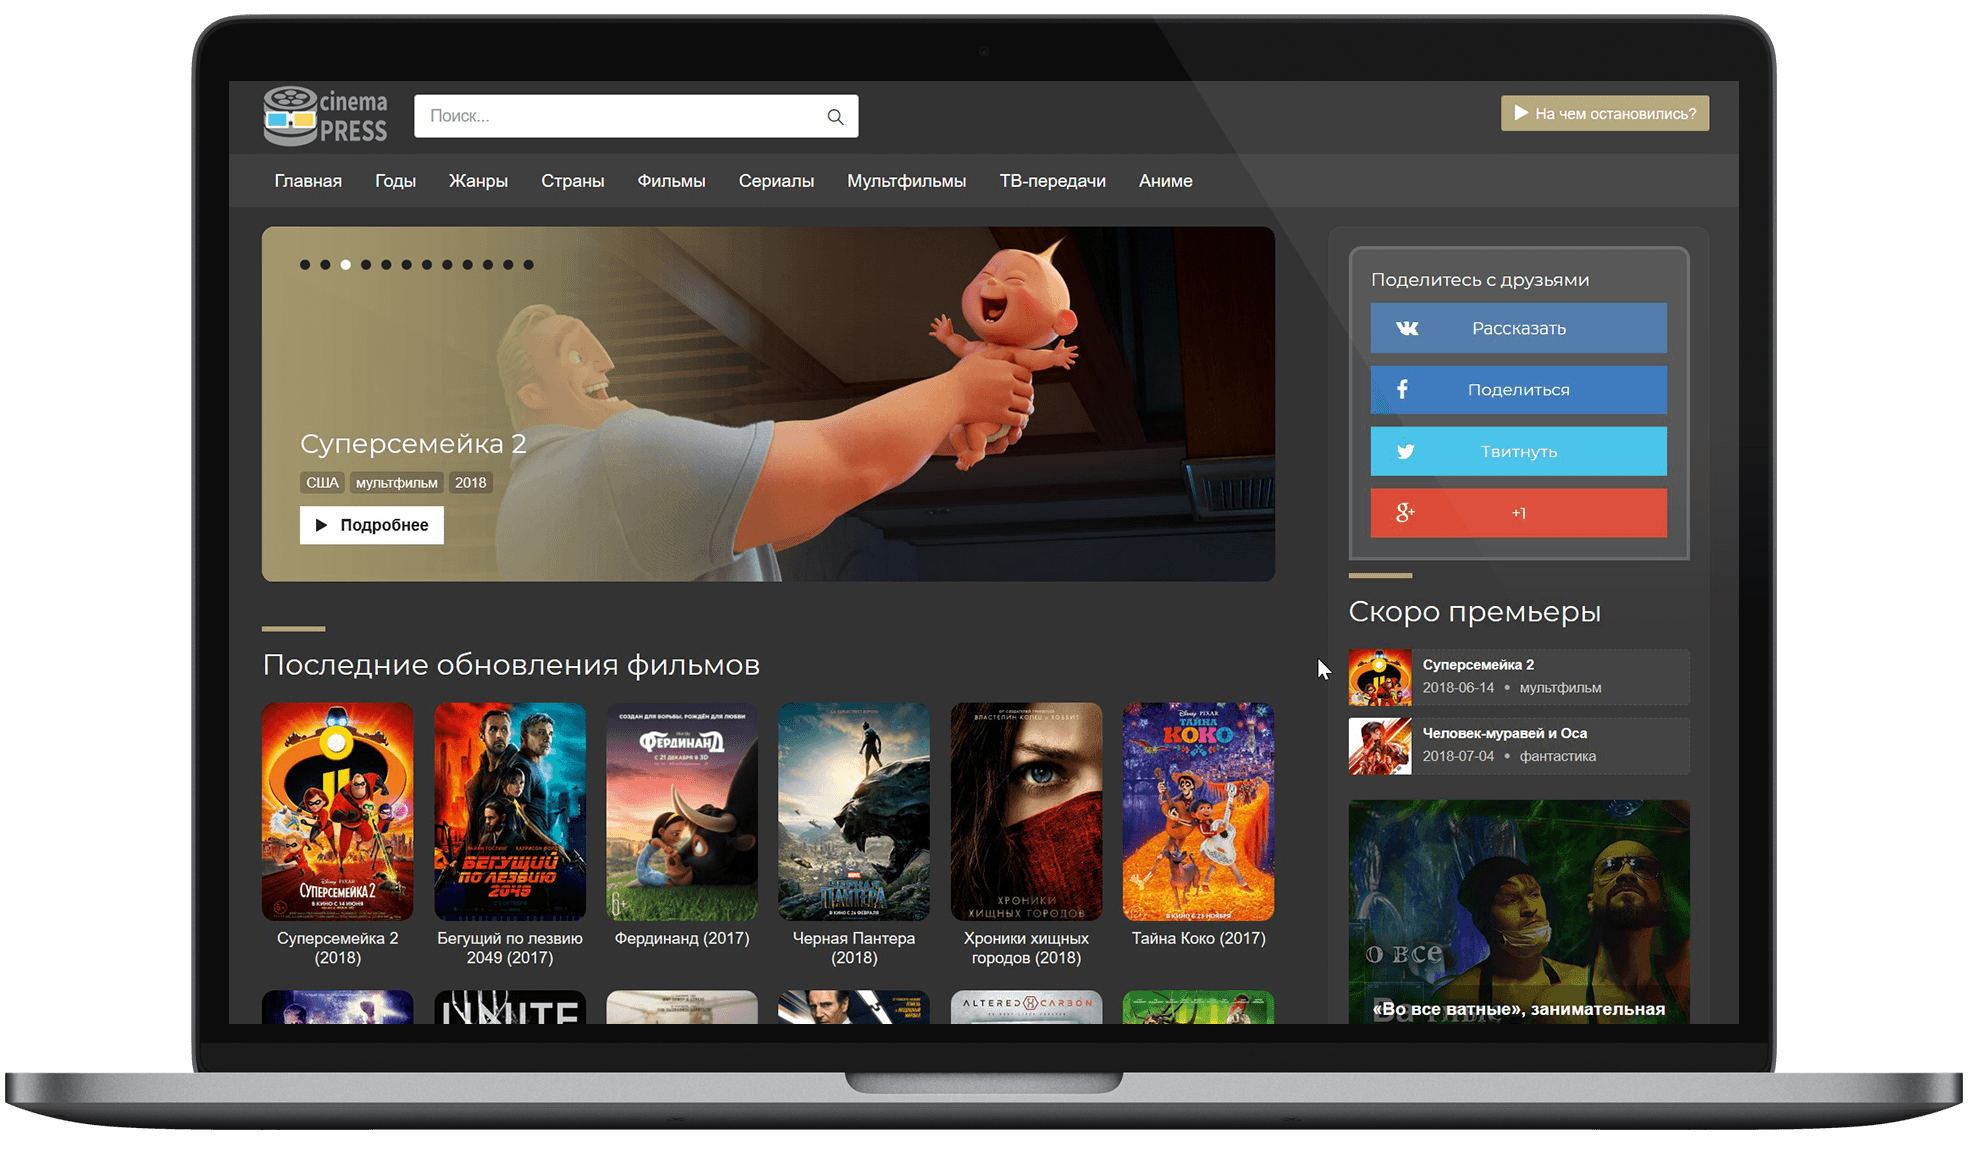
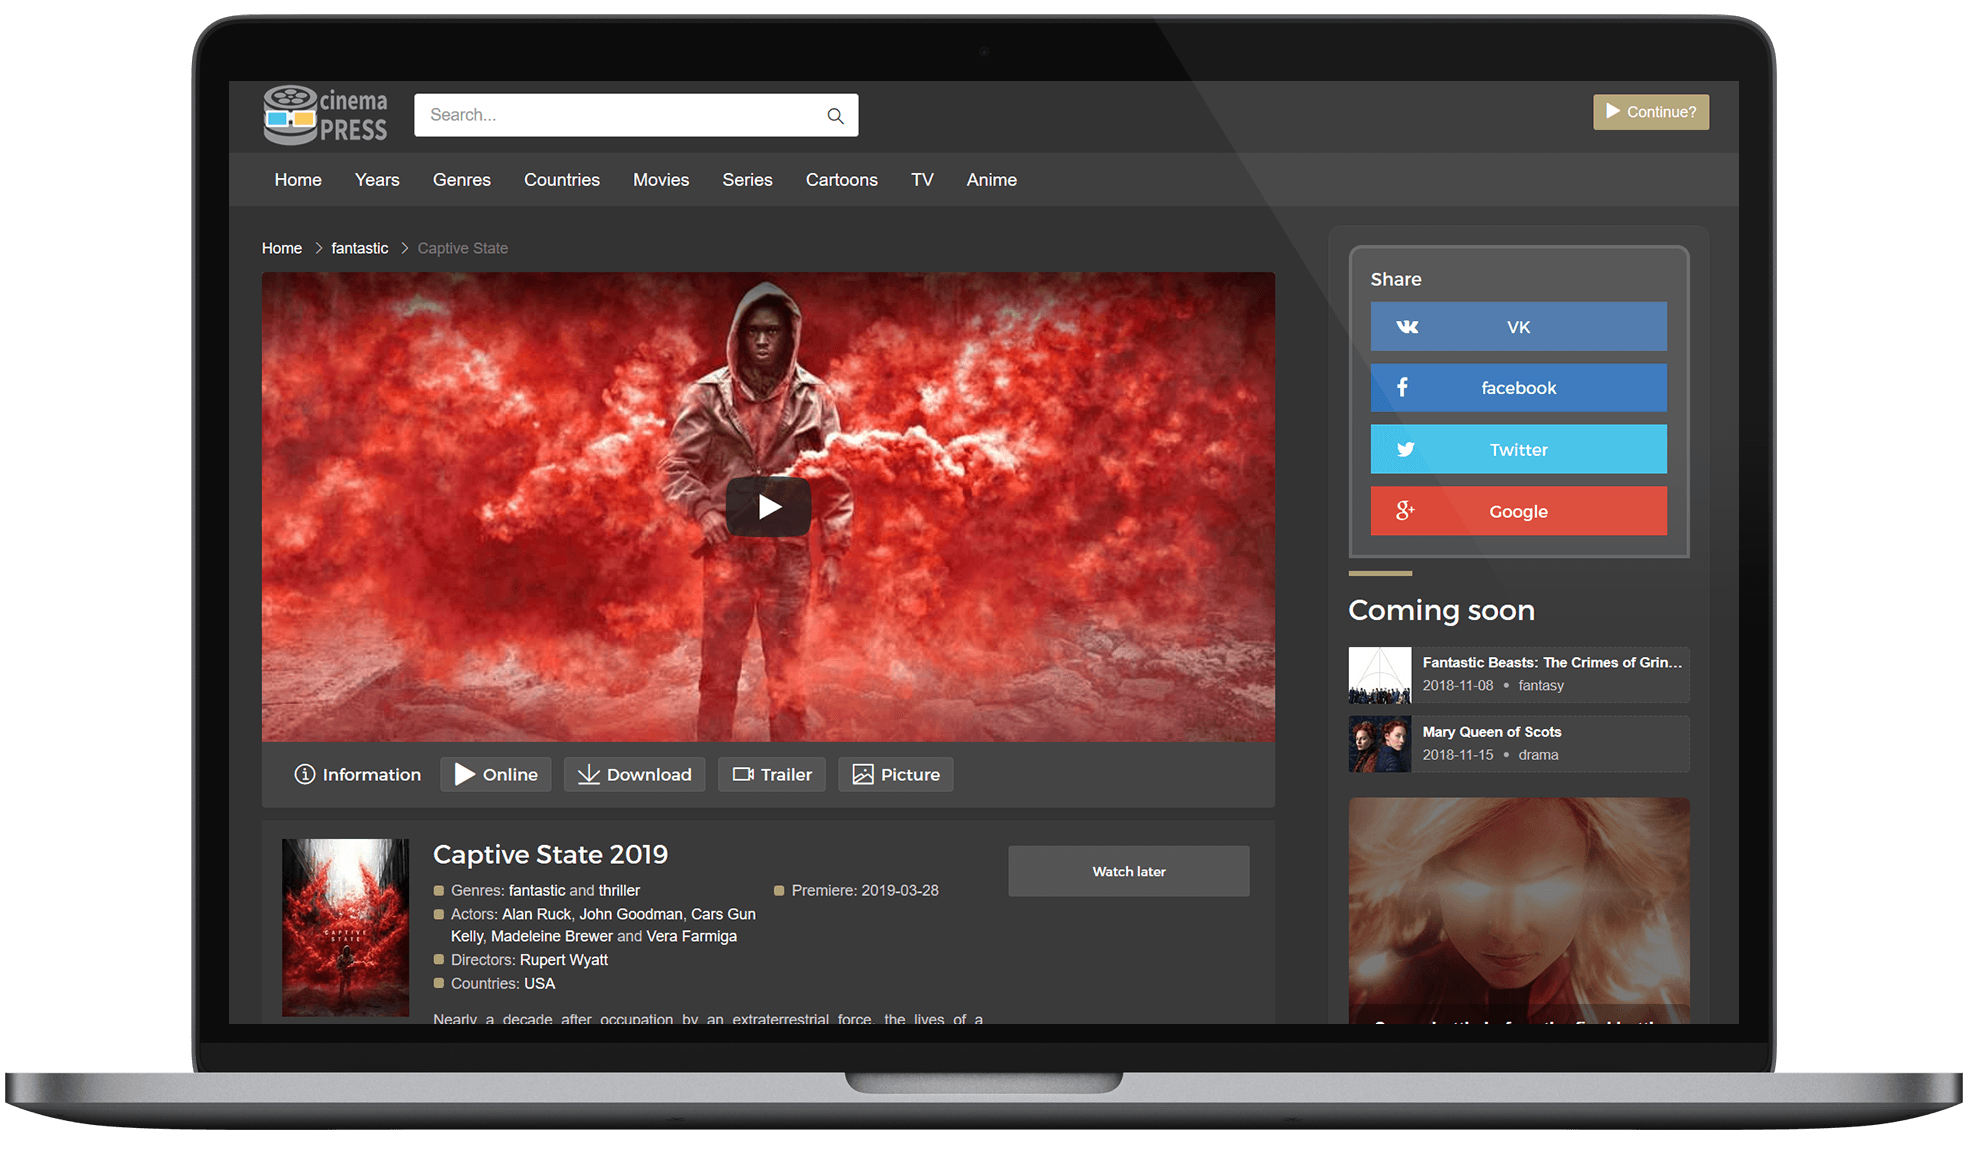
Add translate, new scr

diff --git a/README.md b/README.md
@@ -1,18 +1,29 @@
-# Шаблон «tarly»
+# Theme «tarly»
 
-![Шаблон «tarly» для CinemaPress ACMS](https://raw.githubusercontent.com/CinemaPress/Theme-Tarly/master/screenshot.png "Шаблон «tarly» для CinemaPress ACMS")
+![Theme «tarly» for CinemaPress ACMS](https://raw.githubusercontent.com/CinemaPress/Theme-Tarly/master/screenshot.png "Theme «tarly» for CinemaPress ACMS")
 
-:art: Шаблон «tarly» для CinemaPress ACMS
+:art: Theme «tarly» for CinemaPress ACMS
 
 - [Tarly.CinemaPress.org](http://Tarly.CinemaPress.org/)
 
-## Установка
+## How to install?
+1. Download [GitHub](https://github.com/CinemaPress/Theme-Tarly/archive/master.zip) or [GitLab](https://gitlab.com/CinemaPress/Theme-Tarly/repository/archive.zip) or [BitBucket](https://bitbucket.org/cinemapress/theme-tarly/get/master.zip) or [Coding](https://coding.net/u/CinemaPress/p/Theme-Tarly/git/archive/master.zip)
+2. Unpack the archive and rename the folder to **tarly**
+3. Folder **tarly** send to server in folder **themes**
+4. Change the name of the theme in the admin panel to **tarly**
+
+## Installation via terminal
+```
+~# wget cinemapress.org/i -qO i && chmod +x i && ./i 3
+```
+
+## Как установить?
 1. Скачать архив с [GitHub](https://github.com/CinemaPress/Theme-Tarly/archive/master.zip) или [GitLab](https://gitlab.com/CinemaPress/Theme-Tarly/repository/archive.zip) или [BitBucket](https://bitbucket.org/cinemapress/theme-tarly/get/master.zip) или [Coding](https://coding.net/u/CinemaPress/p/Theme-Tarly/git/archive/master.zip)
 2. Распаковать архив и переименовать папку в **tarly**
 3. Папку **tarly** отправить на сервер в папку **themes**
 4. Изменить название темы в админ-панели на **tarly**
 
-## Установка через установщик тем CinemaPress ACMS
+## Установка через терминал
 ```
 ~# wget cinemapress.org/i -qO i && chmod +x i && ./i 3
 ```
